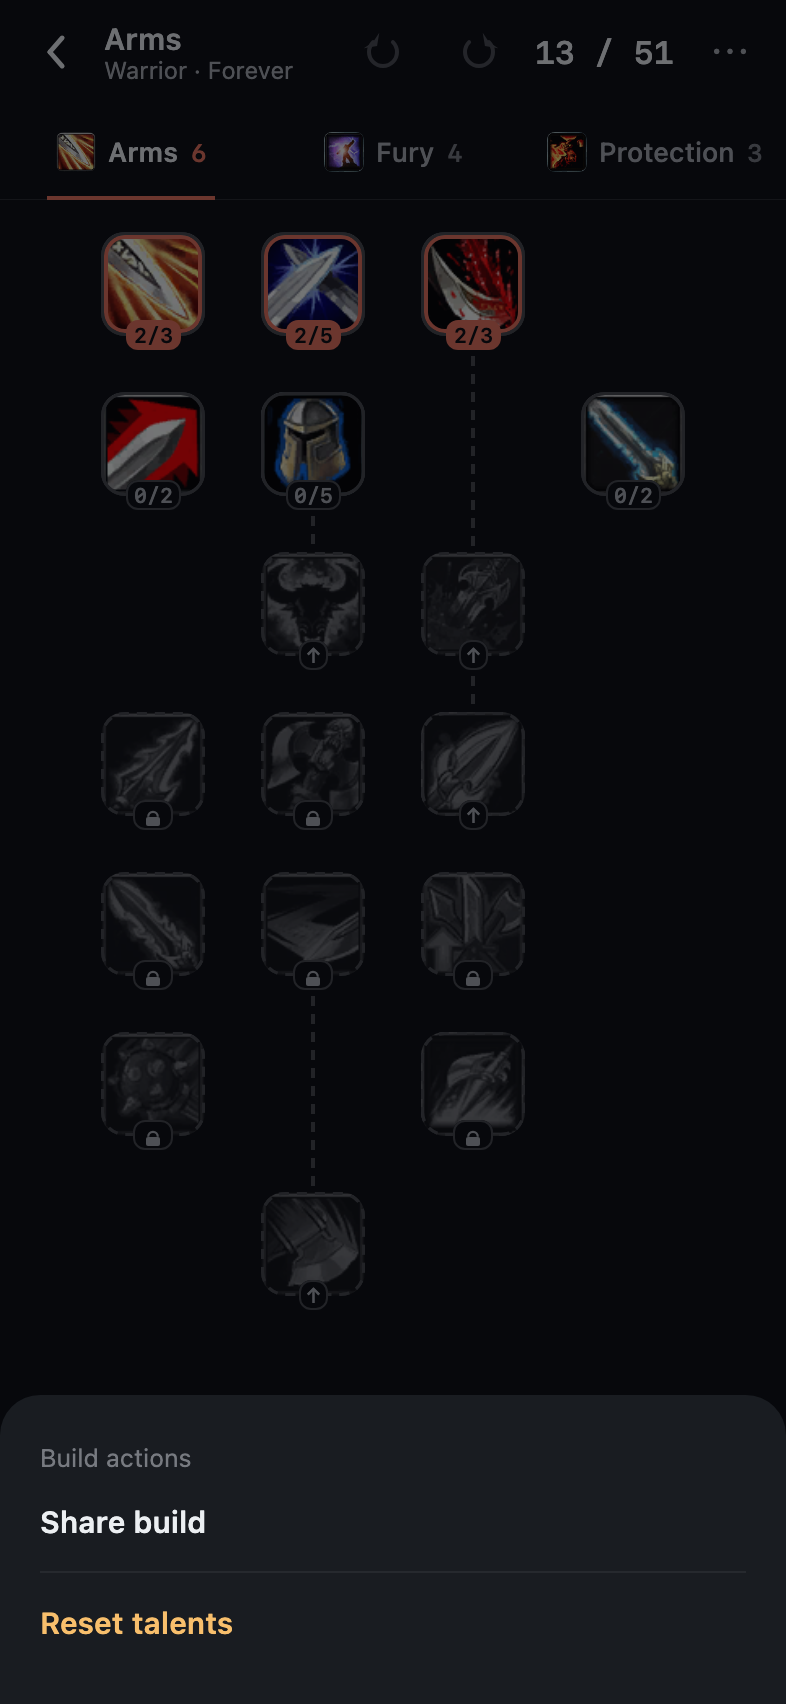
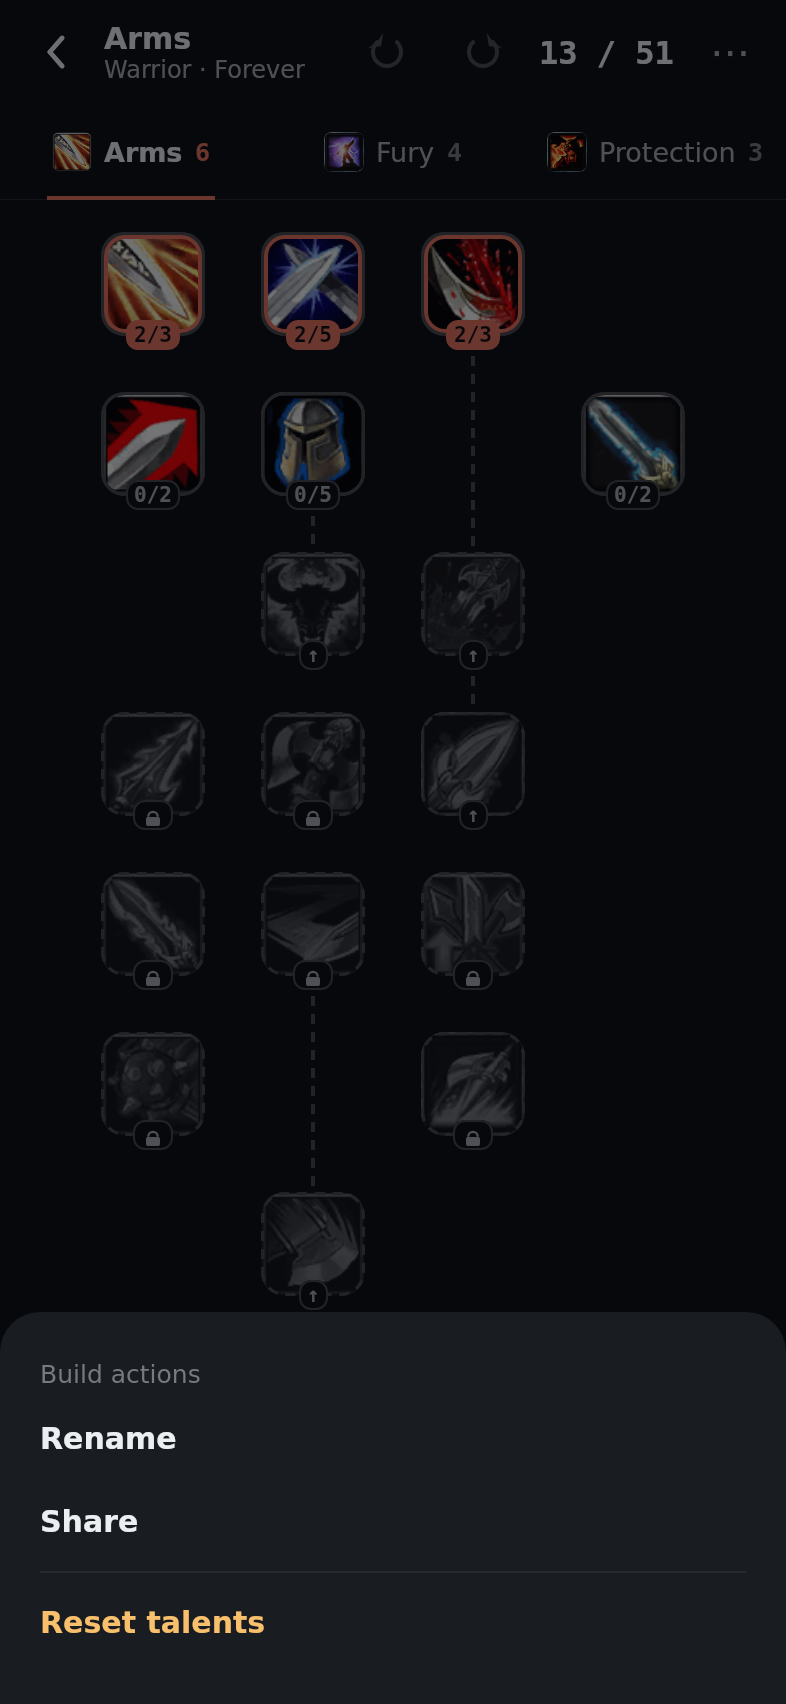
docs: M5.SHARE.2 rename and share actions in all three places
build-sharing.md §9 and mobile-architecture.md "Build sharing UI": the
Home Recent and editor entry points, the shared presenter and the
rename/autosave coordination, copy and tests. Screenshots (Linux-rendered;
the handoff script replaces them with Mac renders): Home Recent actions,
the editor ⋯ with Rename / Share / Reset, the rename dialog from the editor
and the updated title, EN/RU, portrait, landscape and 320 dp at 200 %.

Claude-Session: https://claude.ai/code/session_01W7N3CB3ajaAMVh6qmaoqvg

diff --git a/docs/mobile-architecture.md b/docs/mobile-architecture.md
@@ -1672,11 +1672,15 @@ Android and iOS, offline, with no new dependency. All logic is common Kotlin in
 `composeApp/ui/share`; the platforms contribute one narrow adapter each.
 
 ```
-Editor ⋯ "Share build" ──▶ TalentTreeScreen.onShareBuild(editing.current)   (sync, at the tap)
+Editor ⋯ "Share"        ──▶ TalentTreeScreen.onShareBuild(editing.current)   (sync, at the tap)
                            └▶ exportEditorState(state, identity = record.build)
                                 buildFileOf(…) → BuildShareCode.encode → BuildShareSheet
-All Builds ⋯ "Share"   ──▶ exportPersistedBuild(repository, localId)
-                                repository.load() (never open) → encode → BuildShareSheet
+Home Recent ⋯ "Share"  ┐
+All Builds ⋯ "Share"   ┴─▶ BuildActionsPresenter.sharePersisted(localId)
+                           └▶ exportPersistedBuild: repository.load() (never open) → encode → BuildShareSheet
+Home Recent / editor / All Builds ⋯ "Rename"
+                       ──▶ BuildActionsPresenter → RenameBuildDialog → BuildAutosaveCoordinator.rename
+                           └▶ flush() pending saves → writeLock { repository.renameBuild } (metadata only)
 BuildShareSheet: Share → BuildCodeSharing.shareText(code) · Copy code → copyToClipboard(code)
 
 Home / All Builds "Import build" ──▶ AppDestination.ImportBuild → ImportBuildScreen
@@ -1697,6 +1701,22 @@ All Builds exports the latest *persisted* build of exactly the chosen `localId` 
 `LocalBuildRepository.load` — `open` would advance `lastOpenedAt` — so no timestamp, name,
 payload or list order changes; a vanished record (`UnknownRecord`) or a read failure is a
 retryable notice.
+
+**Rename and Share everywhere.** Home's *Recent* rows (a 48 dp ⋯ beside each row: Rename ·
+Share), the editor's ⋯ (Rename · Share · Reset talents — Reset keeps its separated warning
+styling) and All Builds (Rename · Duplicate · Share · Delete) use ONE
+`BuildActionsPresenter` (`ui/builds`): the shared `RenameBuildDialog` (current name
+pre-filled, empty for a Draft, `MAX_BUILD_NAME_LENGTH` from the repository), the persisted
+share read and one single-flight guard (repeated taps never write twice; All Builds runs
+Duplicate and Delete through it too). The editor's Share stays the in-memory export above.
+Every repository operation is an unlocked read–modify–write of the whole library, so the
+rename goes through `BuildAutosaveCoordinator.rename`: it first flushes the saves submitted
+before it, then writes under the same lock as the autosave consumer — neither change can
+overwrite the other — and it is refused (`BuildRenameOutcome.PendingSaveFailed`, a dialog
+line) while the newest save of that build has failed, so the editor keeps its state and its
+Retry notice instead of proceeding. A storage-confirmed rename only updates the editor title
+(the session — allocation, history, selection, cameras — is never recreated) and reloads Home
+or All Builds; `updatedAt` is untouched, so nothing reorders.
 
 **Platform adapters** (`BuildCodeSharing`, `rememberPlatformBuildCodeSharing()`
 expect/actual; injected into `App(sharing = …)`, recorded by tests):
@@ -1722,8 +1742,9 @@ preview with a retryable error; success is reported only with the stored record'
 import keeps the code's exact client build (an older build opens on its own dataset), never
 merges with or overwrites an existing build, and the library schema is unchanged.
 
-**Copy.** EN/RU resources only (`share_*`, `import_*`, `editor_share_build`,
-`builds_action_share`). `importMessageOf` maps every typed failure to one category: empty,
+**Copy.** EN/RU resources only (`share_*`, `import_*`, `builds_action_share`,
+`builds_rename_pending_save_failed`; the ⋯ menus reuse `builds_action_rename` /
+`builds_action_share`, the row ⋯ reuses `builds_row_actions_*`). `importMessageOf` maps every typed failure to one category: empty,
 too long, not a code, unsupported version (`TF2…`, schema ≠ 1), damaged (checksum,
 truncation, malformed body), unshipped client build (named), unavailable class, invalid
 allocation (tree/engine issues), dataset problem; plus storage write, clipboard and native
@@ -1746,7 +1767,14 @@ latest-persisted export without writes, vanished record, RU), `BuildImportUiTest
 All Builds entries incl. the empty library, preview copy, one record, origin-correct Back,
 Cancel/system Back without writes, error messages, double tap, failed write + retry, RU,
 navigation saver), `ShareLayoutUiTest` (320×568, 393×852, 640×360, 915×412, 1280×800,
-800×1280 × 100/200 % × EN/RU: every primary action fully inside the window). Screenshots:
+800×1280 × 100/200 % × EN/RU: every primary action fully inside the window),
+`BuildRenameCoordinationTest` (rename waits for a pending save, a save during a rename keeps
+the name, refused after a failed save, another build's failure does not block, metadata only,
+typed failures), `BuildActionsUiTest` (Recent row vs ⋯, rename from Recent / the editor / All
+Builds with the title updated in place and the order kept, pending and failed autosave,
+failed write + retry, double tap, Share from Recent and right after Reset, vanished record,
+RU), `BuildActionsLayoutUiTest` (the ⋯ target, sheets, dialog and editor menu at 320×568,
+393×852, 640×360, 915×412, 1280×800 × 100/200 % × EN/RU). Screenshots:
 `M5Share2ScreenshotTest` (`-Dtalentforge.m5share2.screenshots=<dir>`), committed under
 `docs/screenshots/m5-share-2/`.
 

diff --git a/docs/build-sharing.md b/docs/build-sharing.md
@@ -349,14 +349,23 @@ and on Kotlin/Native (iOS).
 
 ## 9. UI integration (M5.SHARE.2)
 
-- **Export from the editor**: ⋯ → *Share build* encodes the editing session's
+- **Export from the editor**: ⋯ → *Share* encodes the editing session's
   current in-memory build (`buildFileOf` over the session's `BuildState`, bound
   to the record's game / client build / class) at the moment of the tap —
   never the persisted record, which a pending or failed autosave may lag
   behind, and never a cached code. Sharing changes no history and saves nothing.
-- **Export from All Builds**: the row ⋯ → *Share* reads the latest persisted
-  build of exactly that record with `LocalBuildRepository.load` (not `open`,
-  which would touch `lastOpenedAt`): no timestamp, name or order changes.
+- **Export from All Builds and Home**: the All Builds row ⋯ → *Share* and the
+  Home *Recent* row ⋯ → *Share* read the latest persisted build of exactly
+  that record with `LocalBuildRepository.load` (not `open`, which would touch
+  `lastOpenedAt`): no timestamp, name or order changes.
+- **Rename next to Share**: the same three places offer *Rename* (Home Recent
+  ⋯: Rename · Share; editor ⋯: Rename · Share · Reset talents; All Builds ⋯:
+  Rename · Duplicate · Share · Delete). One shared dialog and one write path
+  (`BuildAutosaveCoordinator.rename` → `LocalBuildRepository.renameBuild`):
+  the repository's trimming and 60-character rule, metadata only (no
+  allocation, `updatedAt` or order change), serialized with autosave, and
+  refused while the build's newest talent change failed to save. Renaming
+  does not touch the share code: a code never carries a name.
 - **Export surface**: the exact code (monospace, selectable), *Share* (Android
   `ACTION_SEND` chooser, iOS `UIActivityViewController`, desktop: copies) and
   *Copy code*. Only the canonical code is ever handed to the platform — no
